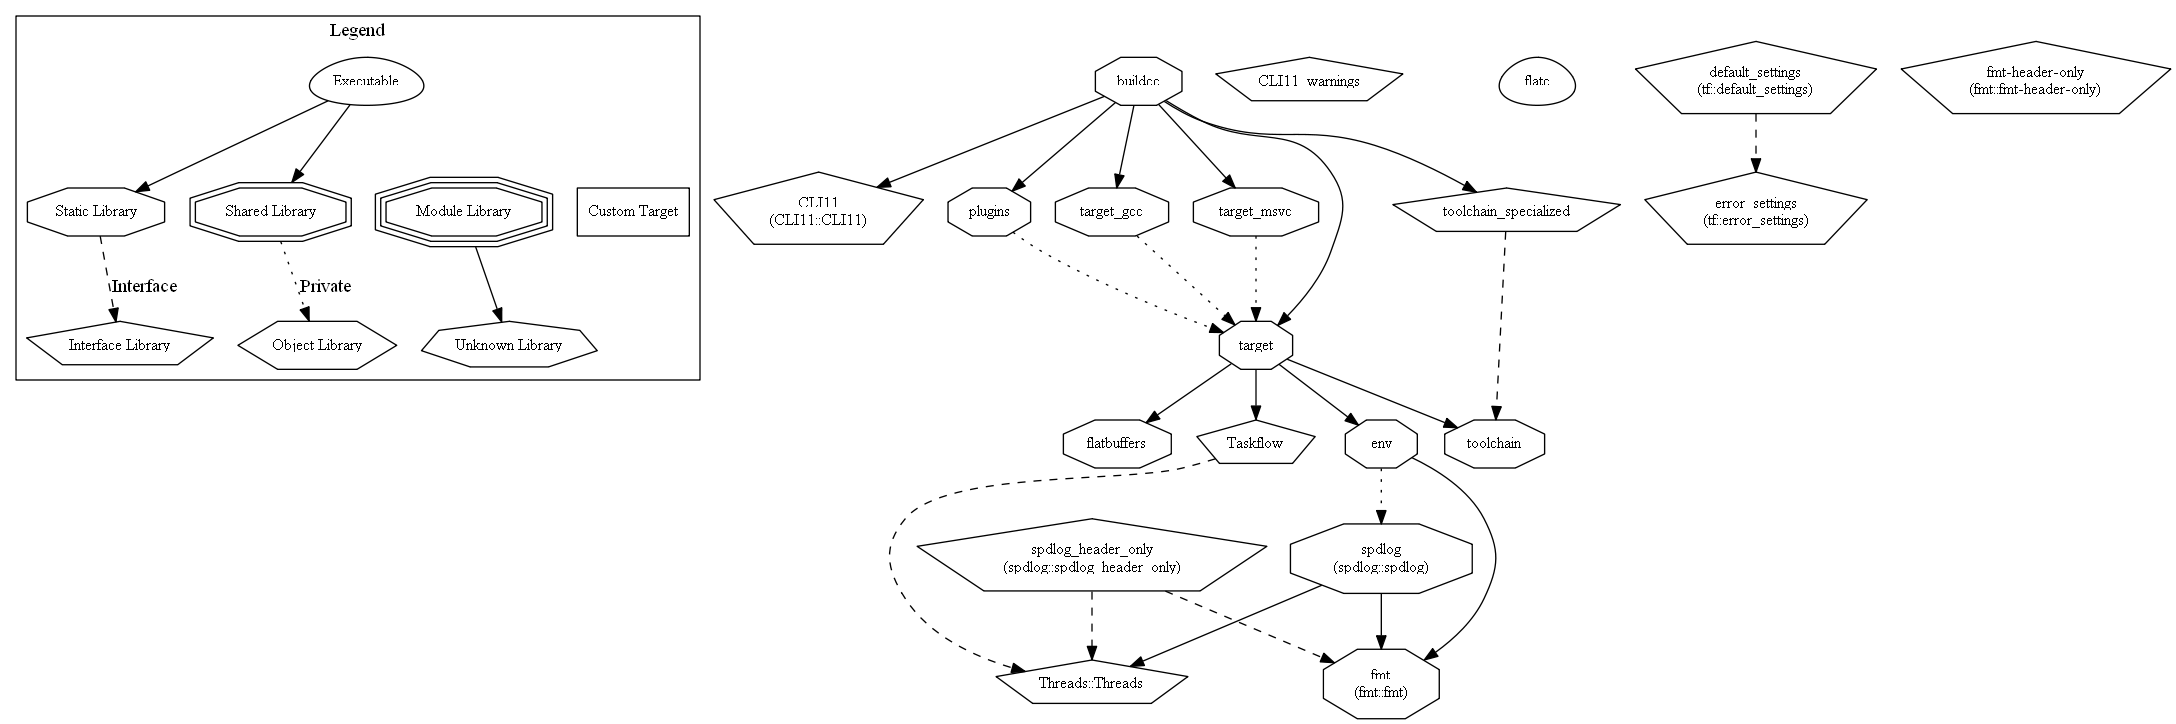
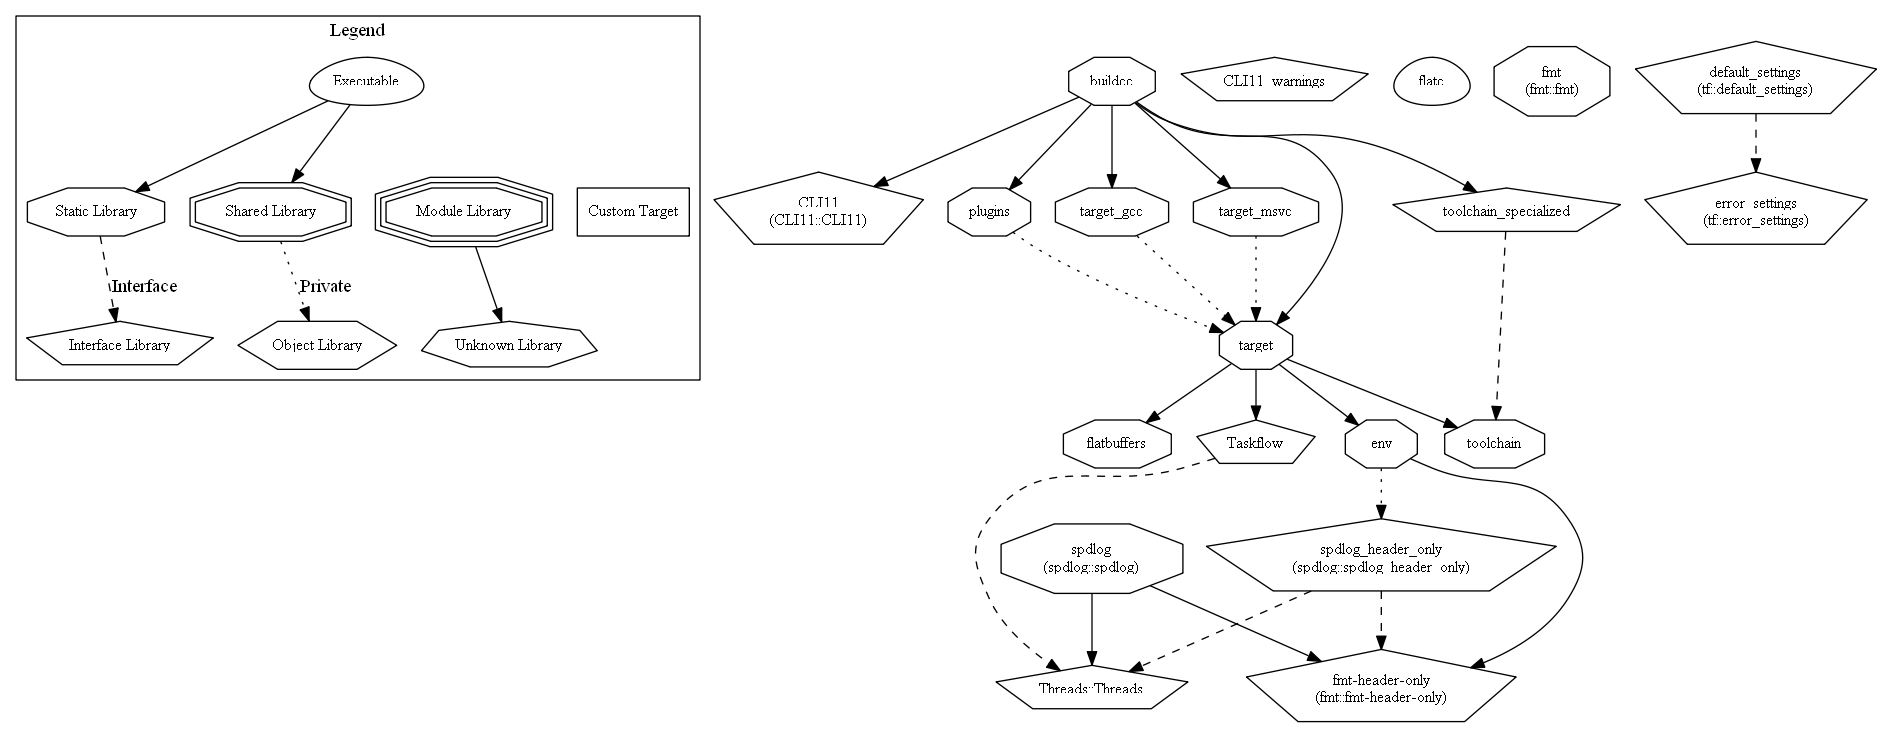
Third party optimization (#58)
- Updated lib usage of fmt and spdlog lib to header only versions
- Updated TODO and README
- Updated graph lib dependency

diff --git a/README.md b/README.md
@@ -189,10 +189,10 @@ _BuildCC_ is licensed under the Apache License, Version 2.0. See [LICENSE](LICEN
 
 > Developers who would like to suggest an alternative library, raise an issue with the **license** and **advantages** clearly outlined.
 
-- [Fmtlib](https://github.com/fmtlib/fmt) (Formatting) [MIT License]
-- [Spdlog](https://github.com/gabime/spdlog) (Logging) [MIT License]
-- [Taskflow](https://github.com/taskflow/taskflow) (Parallel Programming) [MIT License]
+- [Fmtlib](https://github.com/fmtlib/fmt) (Formatting) [MIT License] [Header Only]
+- [Spdlog](https://github.com/gabime/spdlog) (Logging) [MIT License] [Header Only]
+- [Taskflow](https://github.com/taskflow/taskflow) (Parallel Programming) [MIT License] [Header Only]
   - See also [3rd-Party](https://github.com/taskflow/taskflow/tree/master/3rd-party) used by Taskflow
 - [Flatbuffers](https://github.com/google/flatbuffers) (Serialization) [Apache-2.0 License]
-- [CLI11](https://github.com/CLIUtils/CLI11) (Argument Parsing) [BSD-3-Clause License]
+- [CLI11](https://github.com/CLIUtils/CLI11) (Argument Parsing) [BSD-3-Clause License] [Header Only]
 - [CppUTest](https://github.com/cpputest/cpputest) (Unit Testing/Mocking) [BSD-3-Clause License]

diff --git a/TODO.md b/TODO.md
@@ -45,8 +45,8 @@
 - [ ] Static library vs Shared Library when linking buildcc (See **Software Architecture** section)
   - Static library linking is extremely slow on certain compilers
 - [ ] Third party library optimization
-  - spdlog
   - flatbuffers
+  - Do not create static/dynamic **fmt** or **spdlog** library, use INTERFACE header only library. We might need to write our own cmake script for INTERFACE and INSTALL.
 - [ ] C++20 constexpr `std::string` and `std::vector` usage
 
 # Tests
